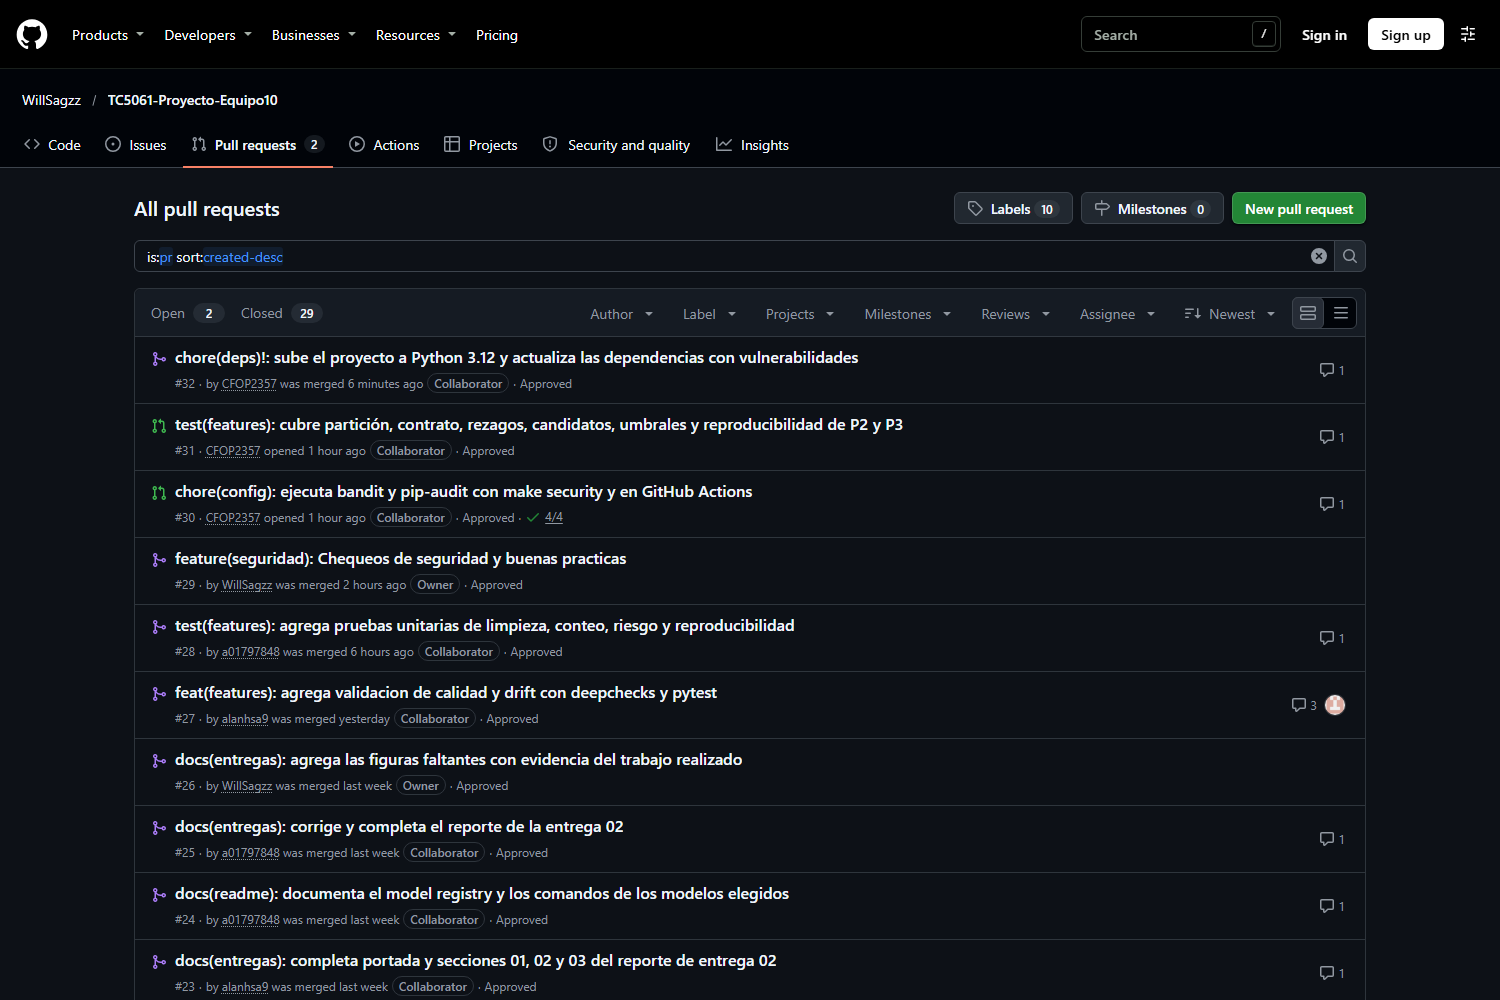
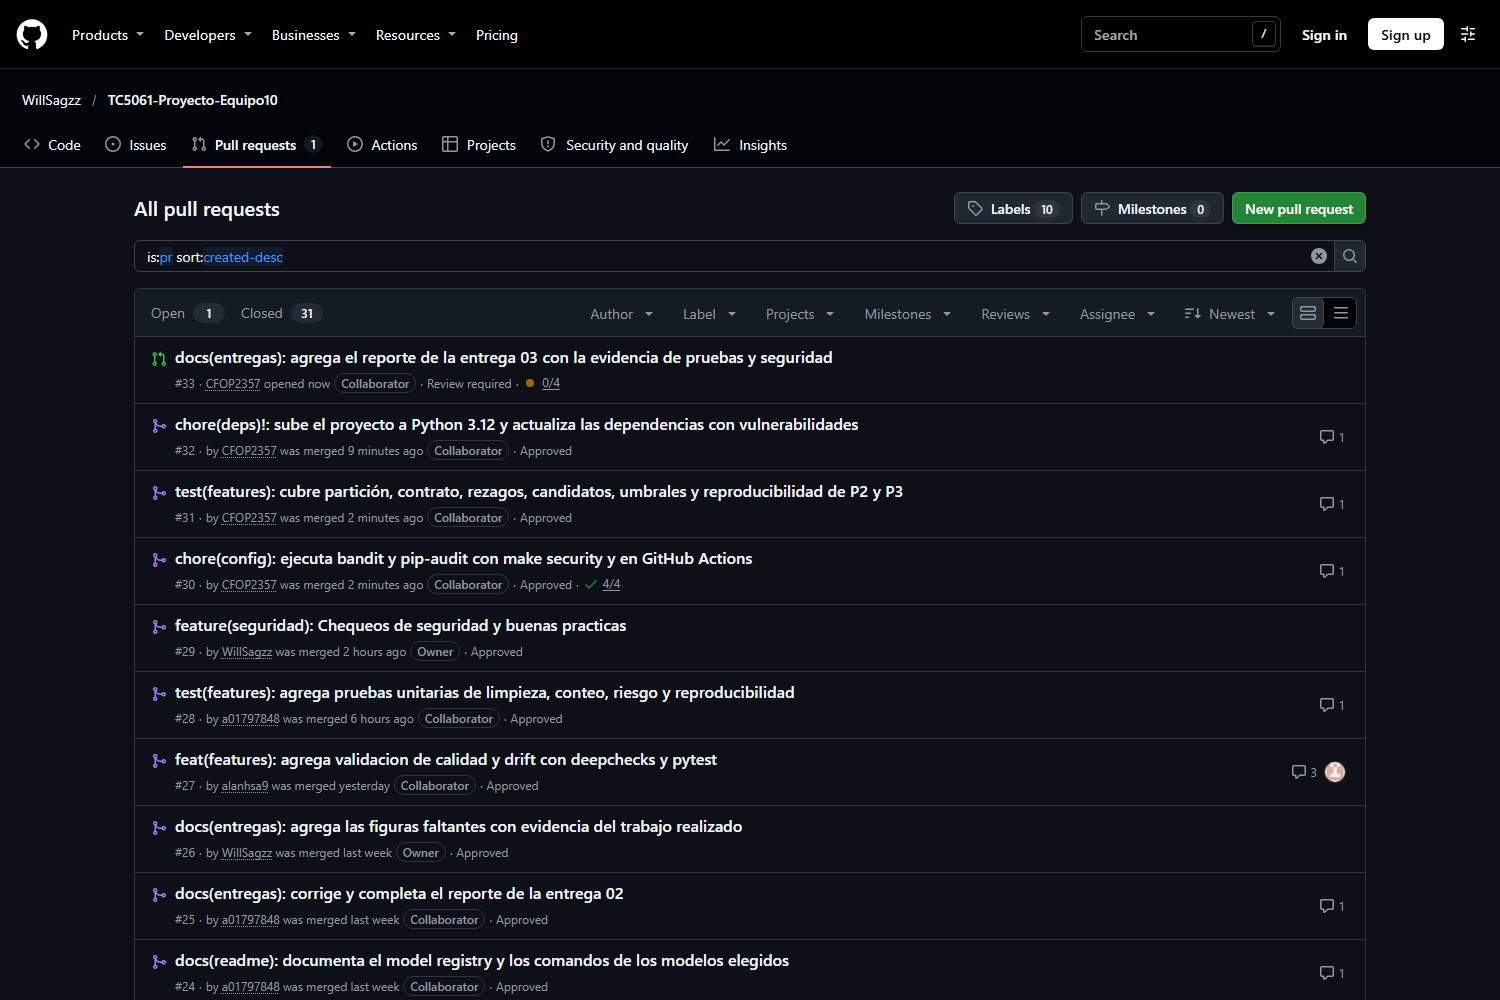
docs(entregas): actualiza la tabla de PRs y las capturas de GitHub tras mezclar #30, #31 y #32
Los PR #30 y #31 aparecen mezclados con su revisor y se vuelven a tomar las capturas de la
pestaña Pull requests y del historial de main, que ya muestran los tres PR en main y este
reporte como #33.

diff --git a/docs/entregas/entrega03/secciones/05-organizacion-colaboracion.md b/docs/entregas/entrega03/secciones/05-organizacion-colaboracion.md
@@ -63,17 +63,17 @@ Además del README y de este reporte, GitHub Actions deja una evidencia permanen
 
 Todo cambio entra a `main` por *Pull Request* con la aprobación de otro integrante. `main` está protegida con un *ruleset* de repositorio (*Main - Pull Requests*): PR obligatorio con una aprobación, aprobaciones que caducan al llegar *commits* nuevos, conversaciones resueltas, solo *squash merge*, sin *force push* ni borrado. Las ramas siguen Conventional Branch (`feature/`, `test/`, `chore/`, `docs/` …) y los mensajes de *commit* y los títulos de PR siguen Conventional Commits 1.0.0 (`tipo(ámbito): descripción`), de modo que cada PR llega a `main` como un solo *commit* cuyo mensaje dice qué cambió y termina con el número del PR.
 
-La Tabla 14 lista los *Pull Requests* de esta actividad. Los tres primeros los abrió un integrante distinto, cada uno sobre un paso de la actividad; los tres siguientes integran, extienden y endurecen ese trabajo; el último es este reporte. Los datos salen de la pestaña *Pull requests* del repositorio (Figura 10).
+La Tabla 14 lista los *Pull Requests* de esta actividad. Los tres primeros los abrió un integrante distinto, cada uno sobre un paso de la actividad; los tres siguientes integran, extienden y endurecen ese trabajo y ya están mezclados en `main`; el último es este reporte. Los datos salen de la pestaña *Pull requests* del repositorio (Figura 10).
 
-**Tabla 14.** *Pull Requests* de la Actividad 7 (orden cronológico). Los PR marcados "en revisión" estaban abiertos al compilar este reporte; su revisión se completa en GitHub al cerrar la entrega.
+**Tabla 14.** *Pull Requests* de la Actividad 7 (orden cronológico). El PR #33 estaba abierto al compilar este reporte; su revisión se completa en GitHub al cerrar la entrega.
 
 | PR | Título | Autor | Revisor | Qué aporta |
 |---|---|---|---|---|
 | #27 | `feat(features): agrega validacion de calidad y drift con deepchecks y pytest` | alanhsa9 (Alan Augusto Herrera Sánchez) | a01797848 | `mibici/validation.py`, umbrales en `config.py`, `tests/test_data_validation.py`, `make check-data`, `make test`, `pytest` y `deepchecks` en `requirements.txt`. |
 | #28 | `test(features): agrega pruebas unitarias de limpieza, conteo, riesgo y reproducibilidad` | a01797848 (Mariely Toribio Rodríguez) | WillSagzz | `tests/test_dataset.py`, `tests/test_features.py`, `tests/test_modeling.py` (reproducibilidad de P1), `setuptools` fijado, tabla *Pruebas unitarias* en el README. |
 | #29 | `feature(seguridad): Chequeos de seguridad y buenas practicas` | WillSagzz (Guillermo Sáenz González) | CFOP2357 | `bandit` y `pip-audit` en `requirements.txt`, carpeta `security/`, patrones de credenciales en `.gitignore`, sección *Seguridad del repositorio* del README. |
-| #30 | `chore(config): ejecuta bandit y pip-audit con make security y en GitHub Actions` | CFOP2357 (Victor Yoguel Salazar Alanis) | en revisión | `make security`, `make security-report`, `make check`, `[tool.bandit]` en `pyproject.toml`, los 8 hallazgos atendidos, `.github/workflows/checks.yml` con Python 3.12, `security/vulnerabilidades-aceptadas.txt`. |
-| #31 | `test(features): cubre partición, contrato, rezagos, candidatos, umbrales y reproducibilidad de P2 y P3` | CFOP2357 | en revisión | De 27 a 123 pruebas: `test_features_lags.py`, `test_features_tables.py`, `test_candidates.py`, `test_thresholds.py`, `test_baselines.py` y la reproducibilidad de P2 y P3. |
+| #30 | `chore(config): ejecuta bandit y pip-audit con make security y en GitHub Actions` | CFOP2357 (Victor Yoguel Salazar Alanis) | a01797848 | `make security`, `make security-report`, `make check`, `[tool.bandit]` en `pyproject.toml`, los 8 hallazgos atendidos, `.github/workflows/checks.yml` con Python 3.12, `security/vulnerabilidades-aceptadas.txt`. |
+| #31 | `test(features): cubre partición, contrato, rezagos, candidatos, umbrales y reproducibilidad de P2 y P3` | CFOP2357 | a01797848 | De 27 a 123 pruebas: `test_features_lags.py`, `test_features_tables.py`, `test_candidates.py`, `test_thresholds.py`, `test_baselines.py` y la reproducibilidad de P2 y P3. |
 | #32 | `chore(deps)!: sube el proyecto a Python 3.12 y actualiza las dependencias con vulnerabilidades` | CFOP2357 | a01797848 | Proyecto en Python 3.12, versiones corregidas en `requirements.txt`, `cloudpickle` en `train.py`, `datetime.UTC` en `datapackage.py` y `create_users.py`, resultado de la auditoría en el README. |
 | #33 | `docs(entregas): agrega el reporte de la entrega 03 con la evidencia de pruebas y seguridad` | CFOP2357 | en revisión | Este reporte (`docs/entregas/entrega03/`), `make entrega03` y la subsección de evidencia en el README. |
 
